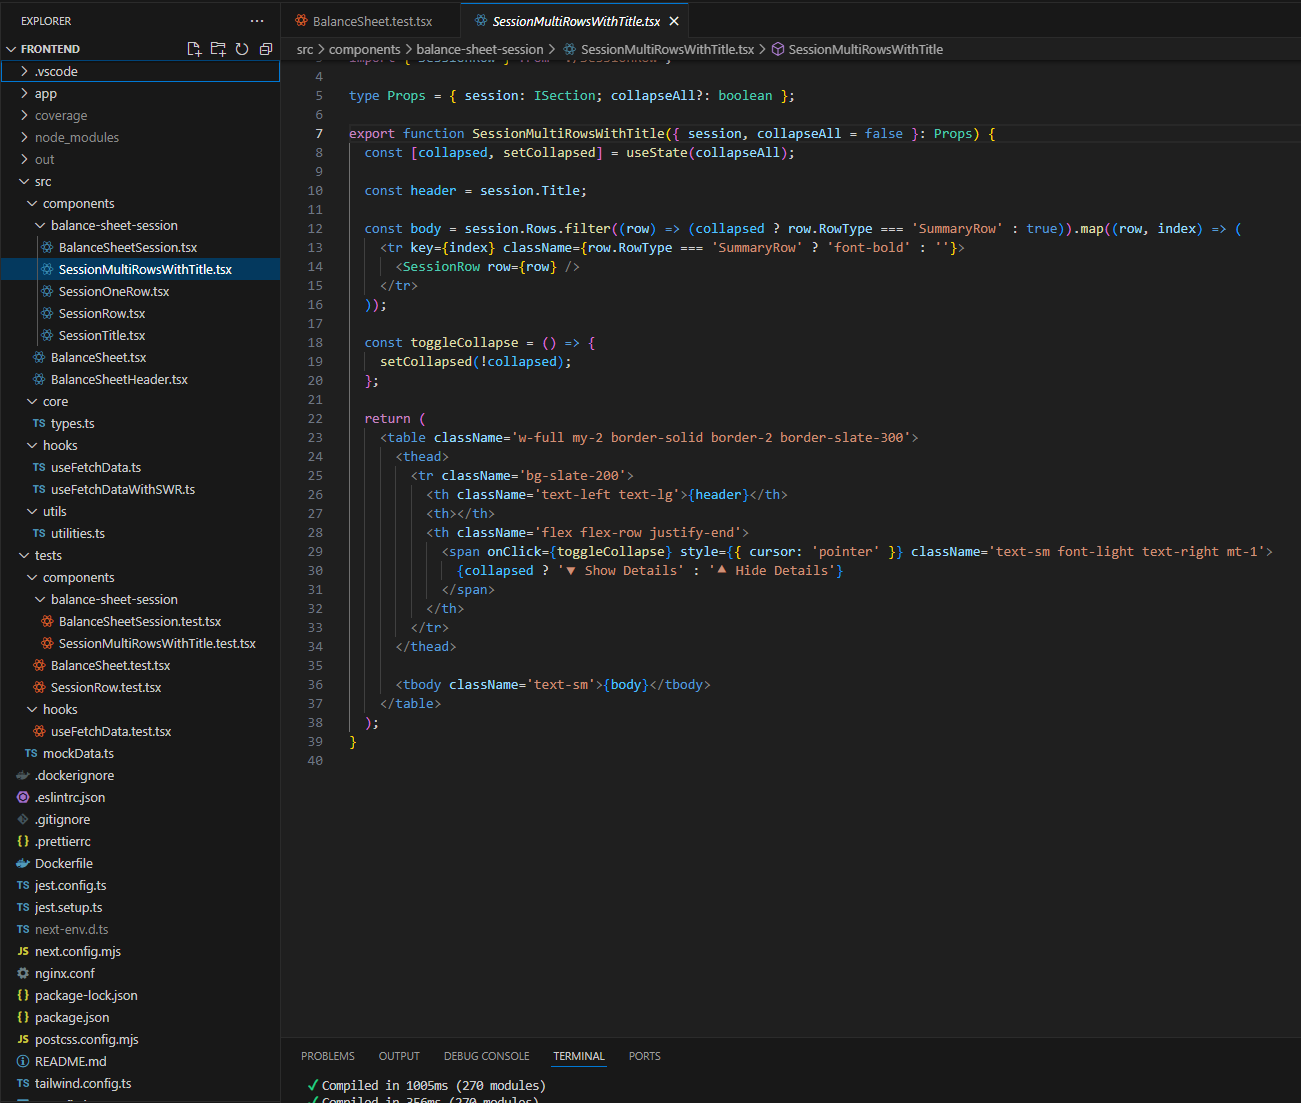
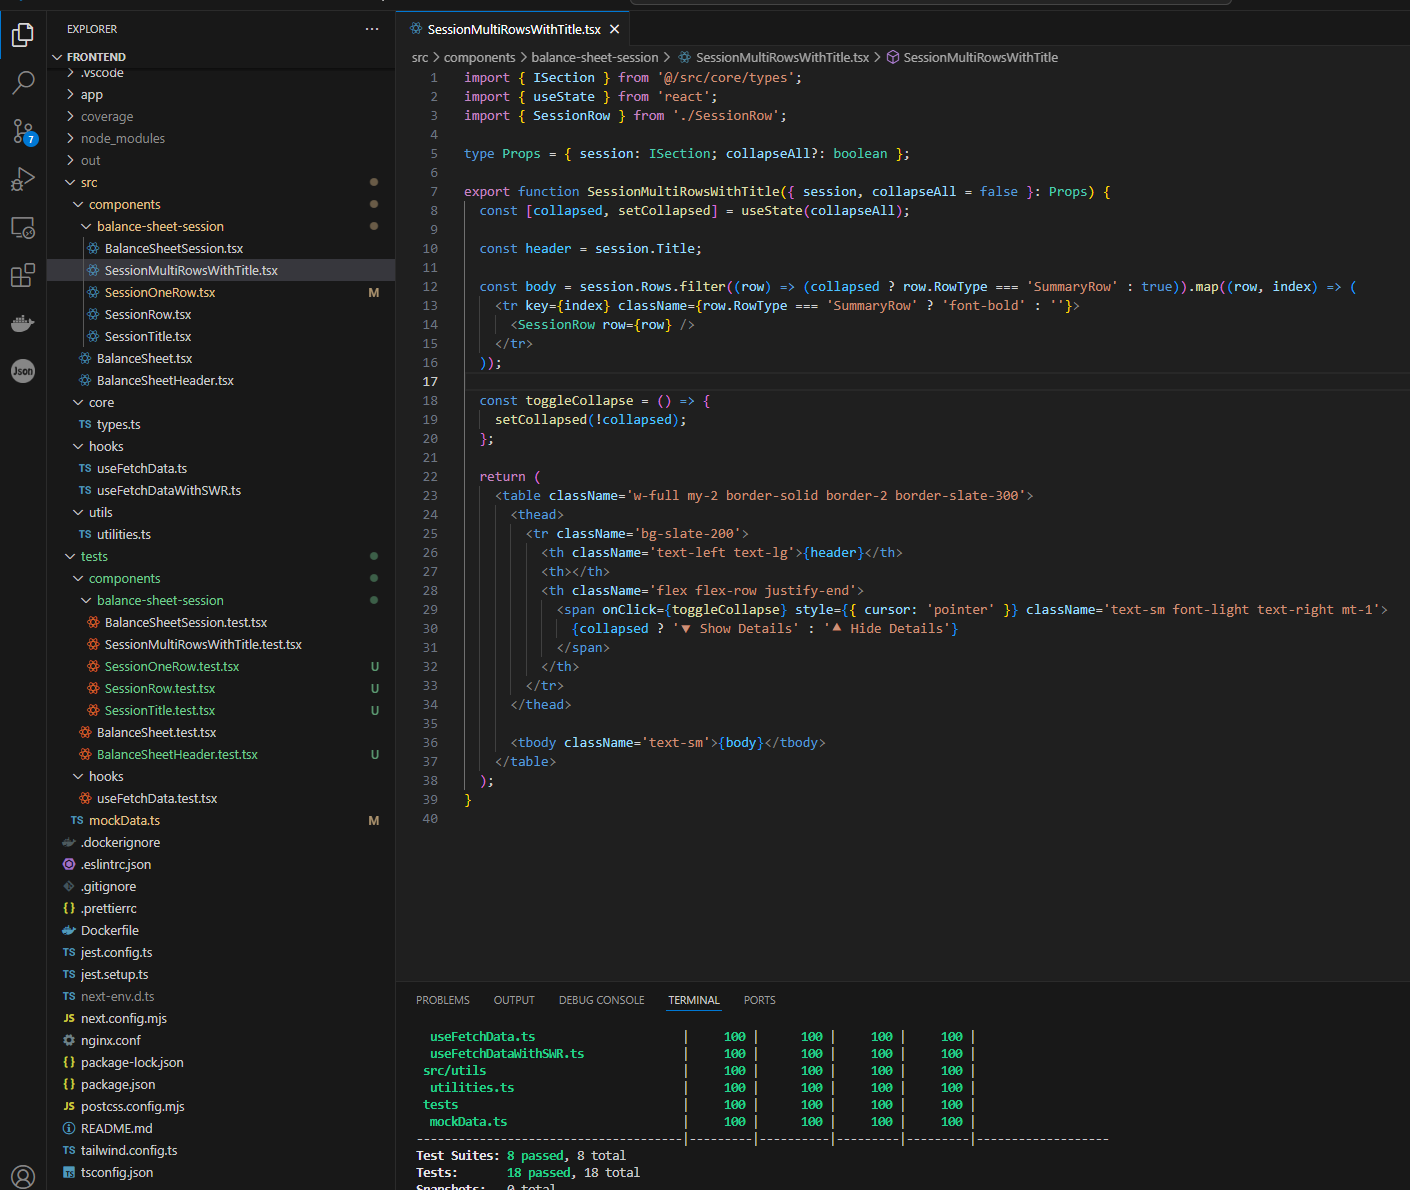
update test cases

diff --git a/frontend/tests/mockData.ts b/frontend/tests/mockData.ts
@@ -117,6 +117,21 @@ export const mockSession: any = {
   ],
 };
 
+export const mockHeader: any = {
+  RowType: 'Header',
+  Cells: [
+    {
+      Value: '',
+    },
+    {
+      Value: '11 October 2024',
+    },
+    {
+      Value: '12 October 2023',
+    },
+  ],
+};
+
 export const mockData = {
   Status: 'OK',
   Reports: [
@@ -129,20 +144,7 @@ export const mockData = {
       UpdatedDateUTC: '/Date(1728641345420)/',
       Fields: [],
       Rows: [
-        {
-          RowType: 'Header',
-          Cells: [
-            {
-              Value: '',
-            },
-            {
-              Value: '11 October 2024',
-            },
-            {
-              Value: '12 October 2023',
-            },
-          ],
-        },
+        mockHeader,
         {
           RowType: 'Section',
           Title: 'Assets',

diff --git a/frontend/tests/components/balance-sheet-session/SessionOneRow.test.tsx b/frontend/tests/components/balance-sheet-session/SessionOneRow.test.tsx
@@ -1,0 +1,23 @@
+import { SessionOneRow } from '@/src/components/balance-sheet-session/SessionOneRow';
+import { render, screen } from '@testing-library/react';
+import { act } from 'react';
+import { mockRow } from '../../mockData';
+
+describe('SessionOneRow Component', () => {
+  it('should show table', async () => {
+    await act(() => {
+      render(<SessionOneRow row={mockRow} />);
+    });
+
+    await screen.getByRole('table');
+  });
+
+  it('should show divider line', async () => {
+    await act(() => {
+      render(<SessionOneRow row={mockRow} />);
+    });
+
+    const element = screen.getByTestId('divider');
+    expect(element).toBeInTheDocument();
+  });
+});

diff --git a/frontend/tests/components/balance-sheet-session/SessionRow.test.tsx b/frontend/tests/components/balance-sheet-session/SessionRow.test.tsx
@@ -1,0 +1,16 @@
+import { SessionRow } from '@/src/components/balance-sheet-session/SessionRow';
+import { render, screen } from '@testing-library/react';
+import { act } from 'react';
+import { mockRow } from '../../mockData';
+
+describe('SessionRow Component', () => {
+  it('should show cell values', async () => {
+    await act(() => {
+      render(<SessionRow row={mockRow} />);
+    });
+
+    screen.getByText(mockRow.Cells[0].Value);
+    screen.getByText('$' + mockRow.Cells[1].Value);
+    screen.getByText('$' + mockRow.Cells[2].Value);
+  });
+});

diff --git a/frontend/tests/components/BalanceSheetHeader.test.tsx b/frontend/tests/components/BalanceSheetHeader.test.tsx
@@ -1,0 +1,15 @@
+import { BalanceSheetHeader } from '@/src/components/BalanceSheetHeader';
+import { render, screen } from '@testing-library/react';
+import { act } from 'react';
+import { mockHeader } from '../mockData';
+
+describe('BalanceSheetHeader Component', () => {
+  it('should show header cell values', async () => {
+    await act(() => {
+      render(<BalanceSheetHeader header={mockHeader} />);
+    });
+
+    screen.getByText(mockHeader.Cells[1].Value);
+    screen.getByText(mockHeader.Cells[2].Value);
+  });
+});

diff --git a/frontend/tests/components/balance-sheet-session/SessionTitle.test.tsx b/frontend/tests/components/balance-sheet-session/SessionTitle.test.tsx
@@ -1,0 +1,15 @@
+import { SessionTitle } from '@/src/components/balance-sheet-session/SessionTitle';
+import { render, screen } from '@testing-library/react';
+import { act } from 'react';
+
+describe('SessionTitle Component', () => {
+  it('should show cell values', async () => {
+    const testTitle = 'test title';
+    await act(() => {
+      render(<SessionTitle title={testTitle} />);
+    });
+
+    const element = screen.getByText(testTitle);
+    expect(element).toBeInTheDocument();
+  });
+});

diff --git a/frontend/src/components/balance-sheet-session/SessionOneRow.tsx b/frontend/src/components/balance-sheet-session/SessionOneRow.tsx
@@ -12,7 +12,7 @@ export function SessionOneRow({ row }: { row: IRow }) {
         </tbody>
       </table>
 
-      <div className='h-5 border-dotted border-t-2 w-full'></div>
+      <div className='h-5 border-dotted border-t-2 w-full' data-testid='divider'></div>
     </div>
   );
 }
